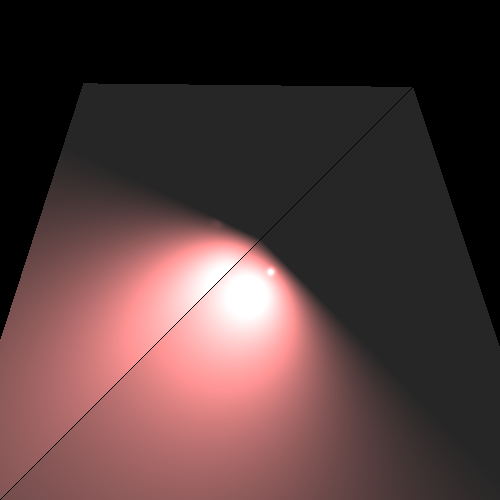
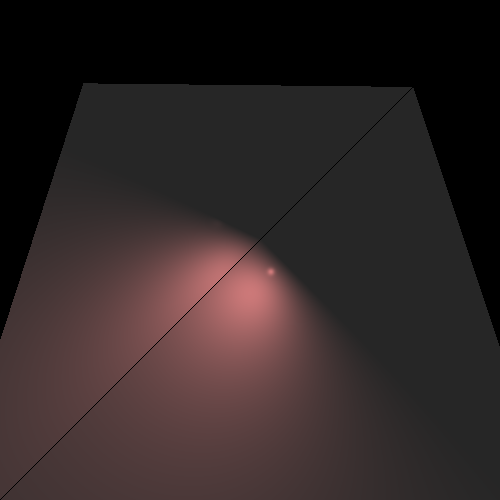
targil 6 - TODO the new tests and documentation

diff --git a/src/elements/SpotLight.java b/src/elements/SpotLight.java
@@ -10,7 +10,7 @@ public class SpotLight extends PointLight{
 
     public SpotLight(Vector direction,Color intensity, Point3D position) {
         super(intensity, position);
-        _direction = direction;
+        _direction = direction.normalized();
     }
 
     @Override
